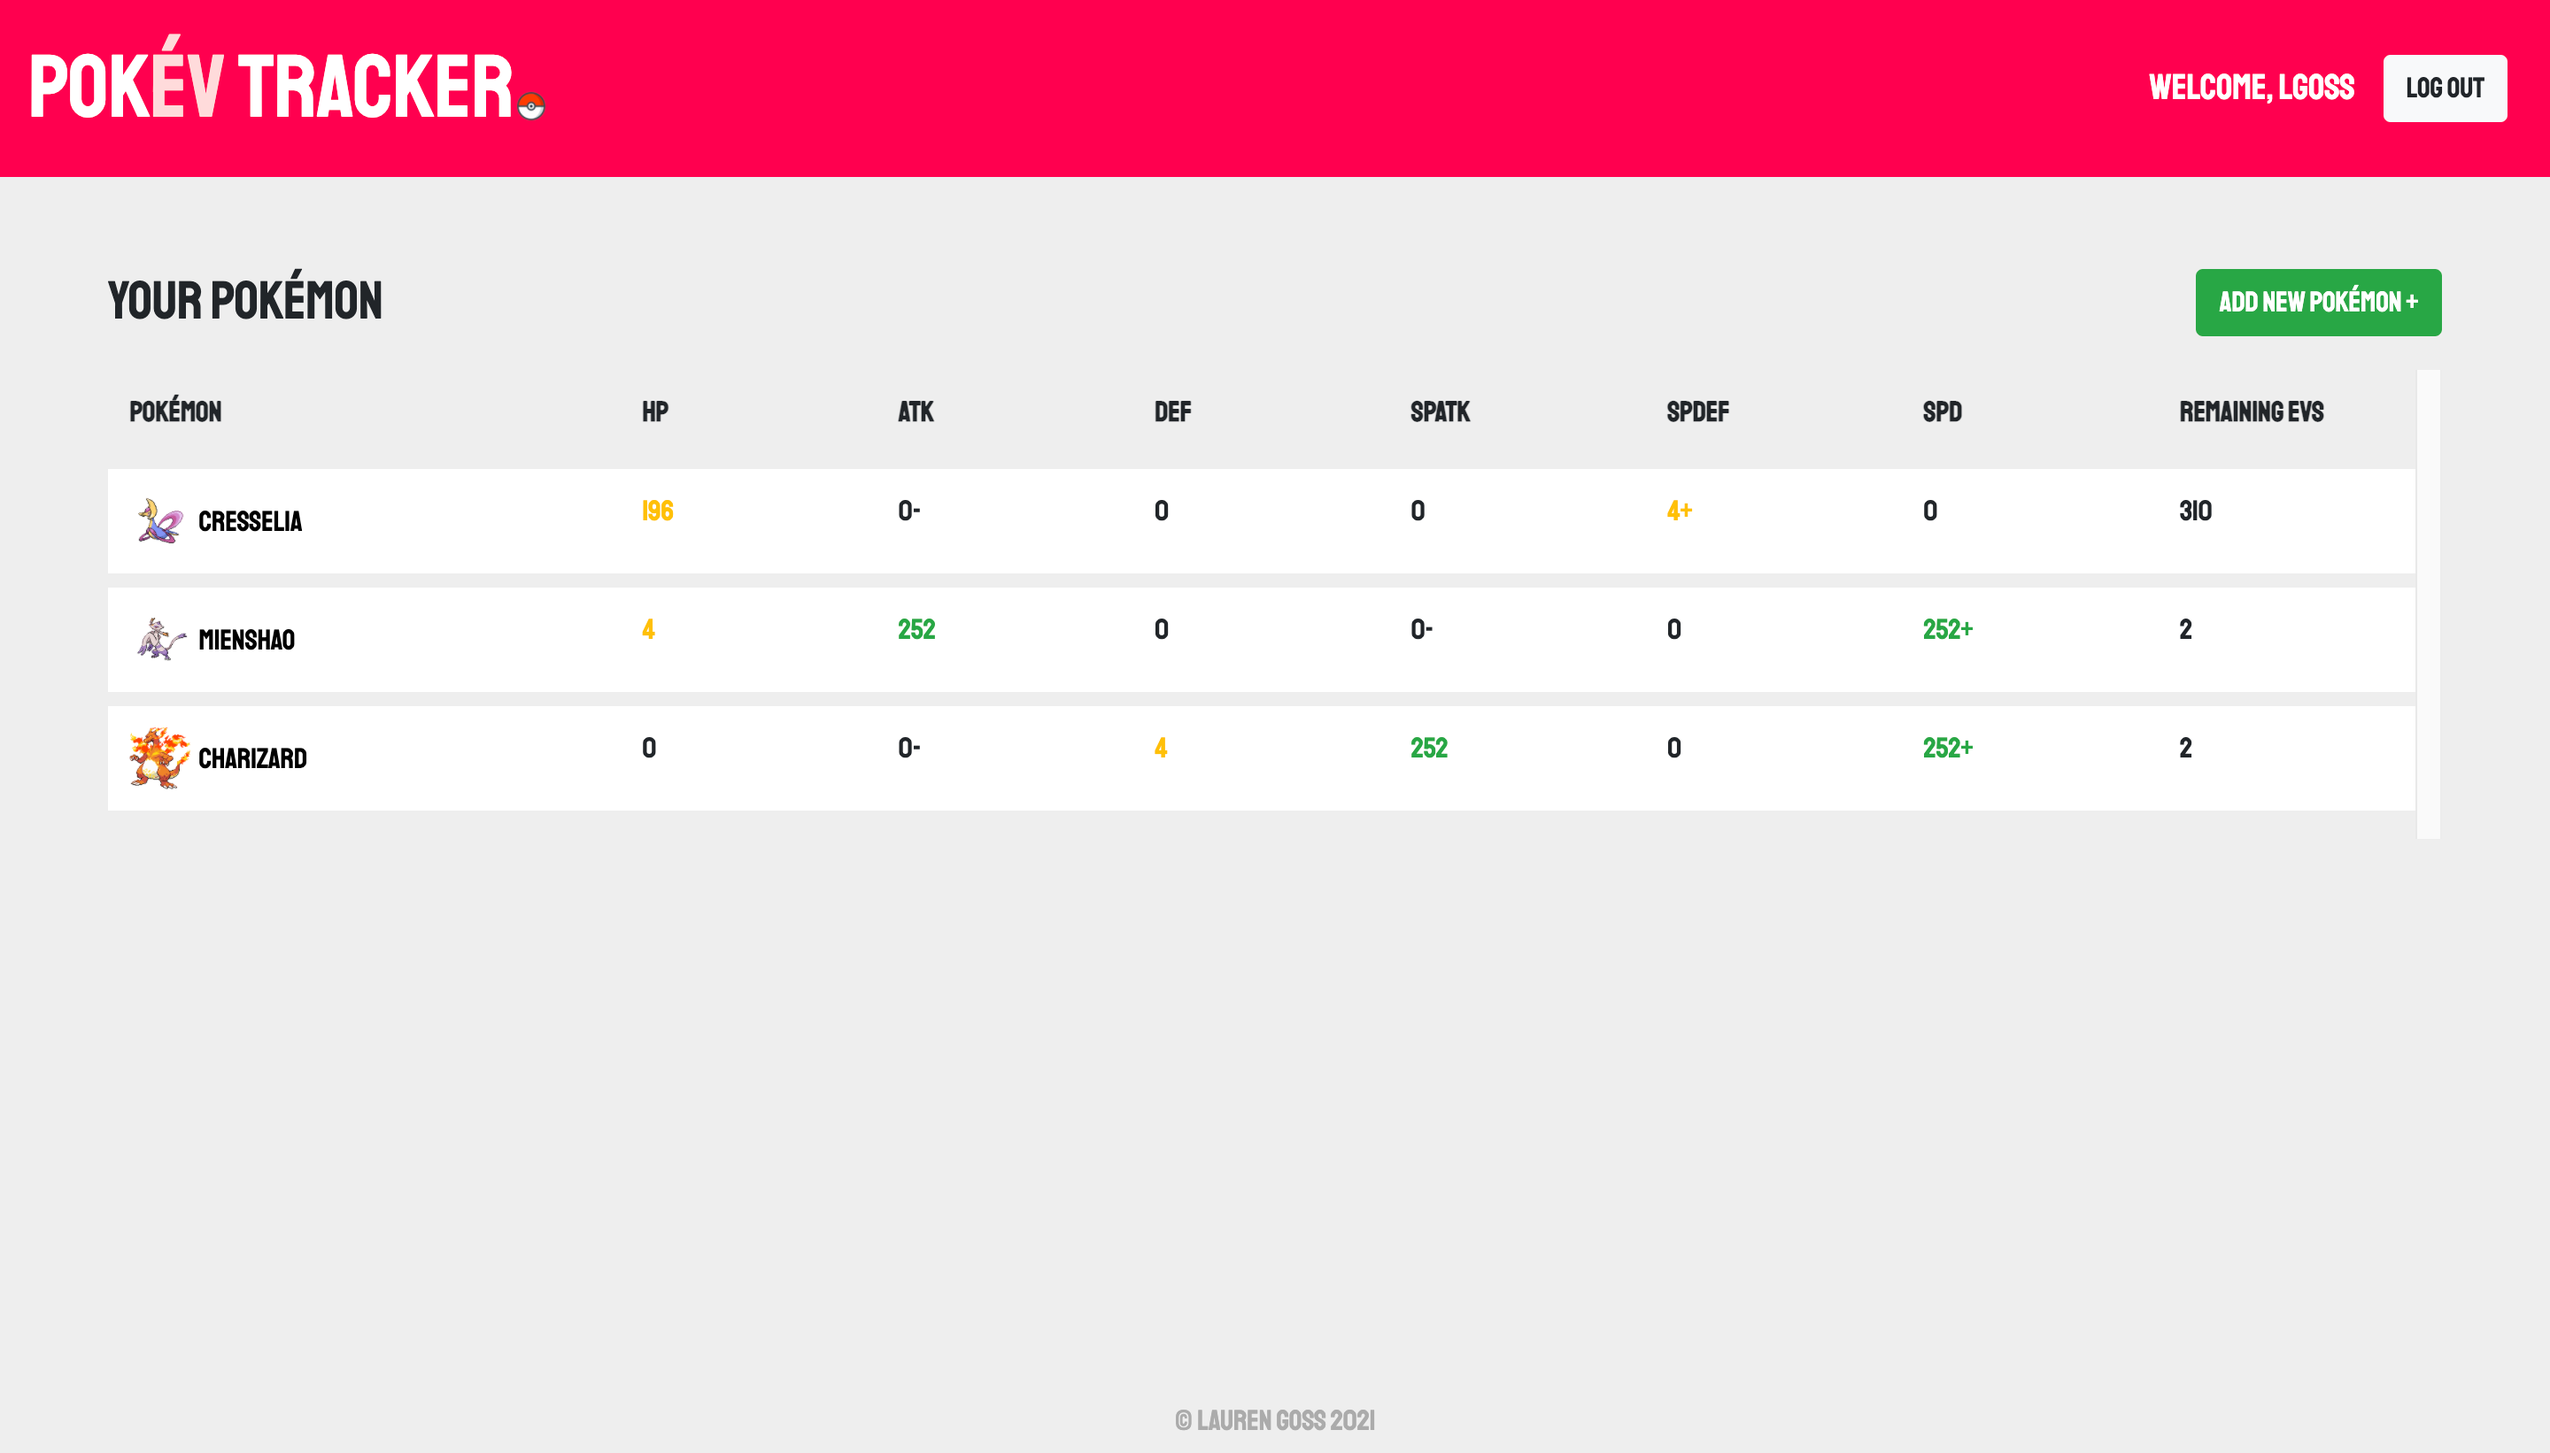
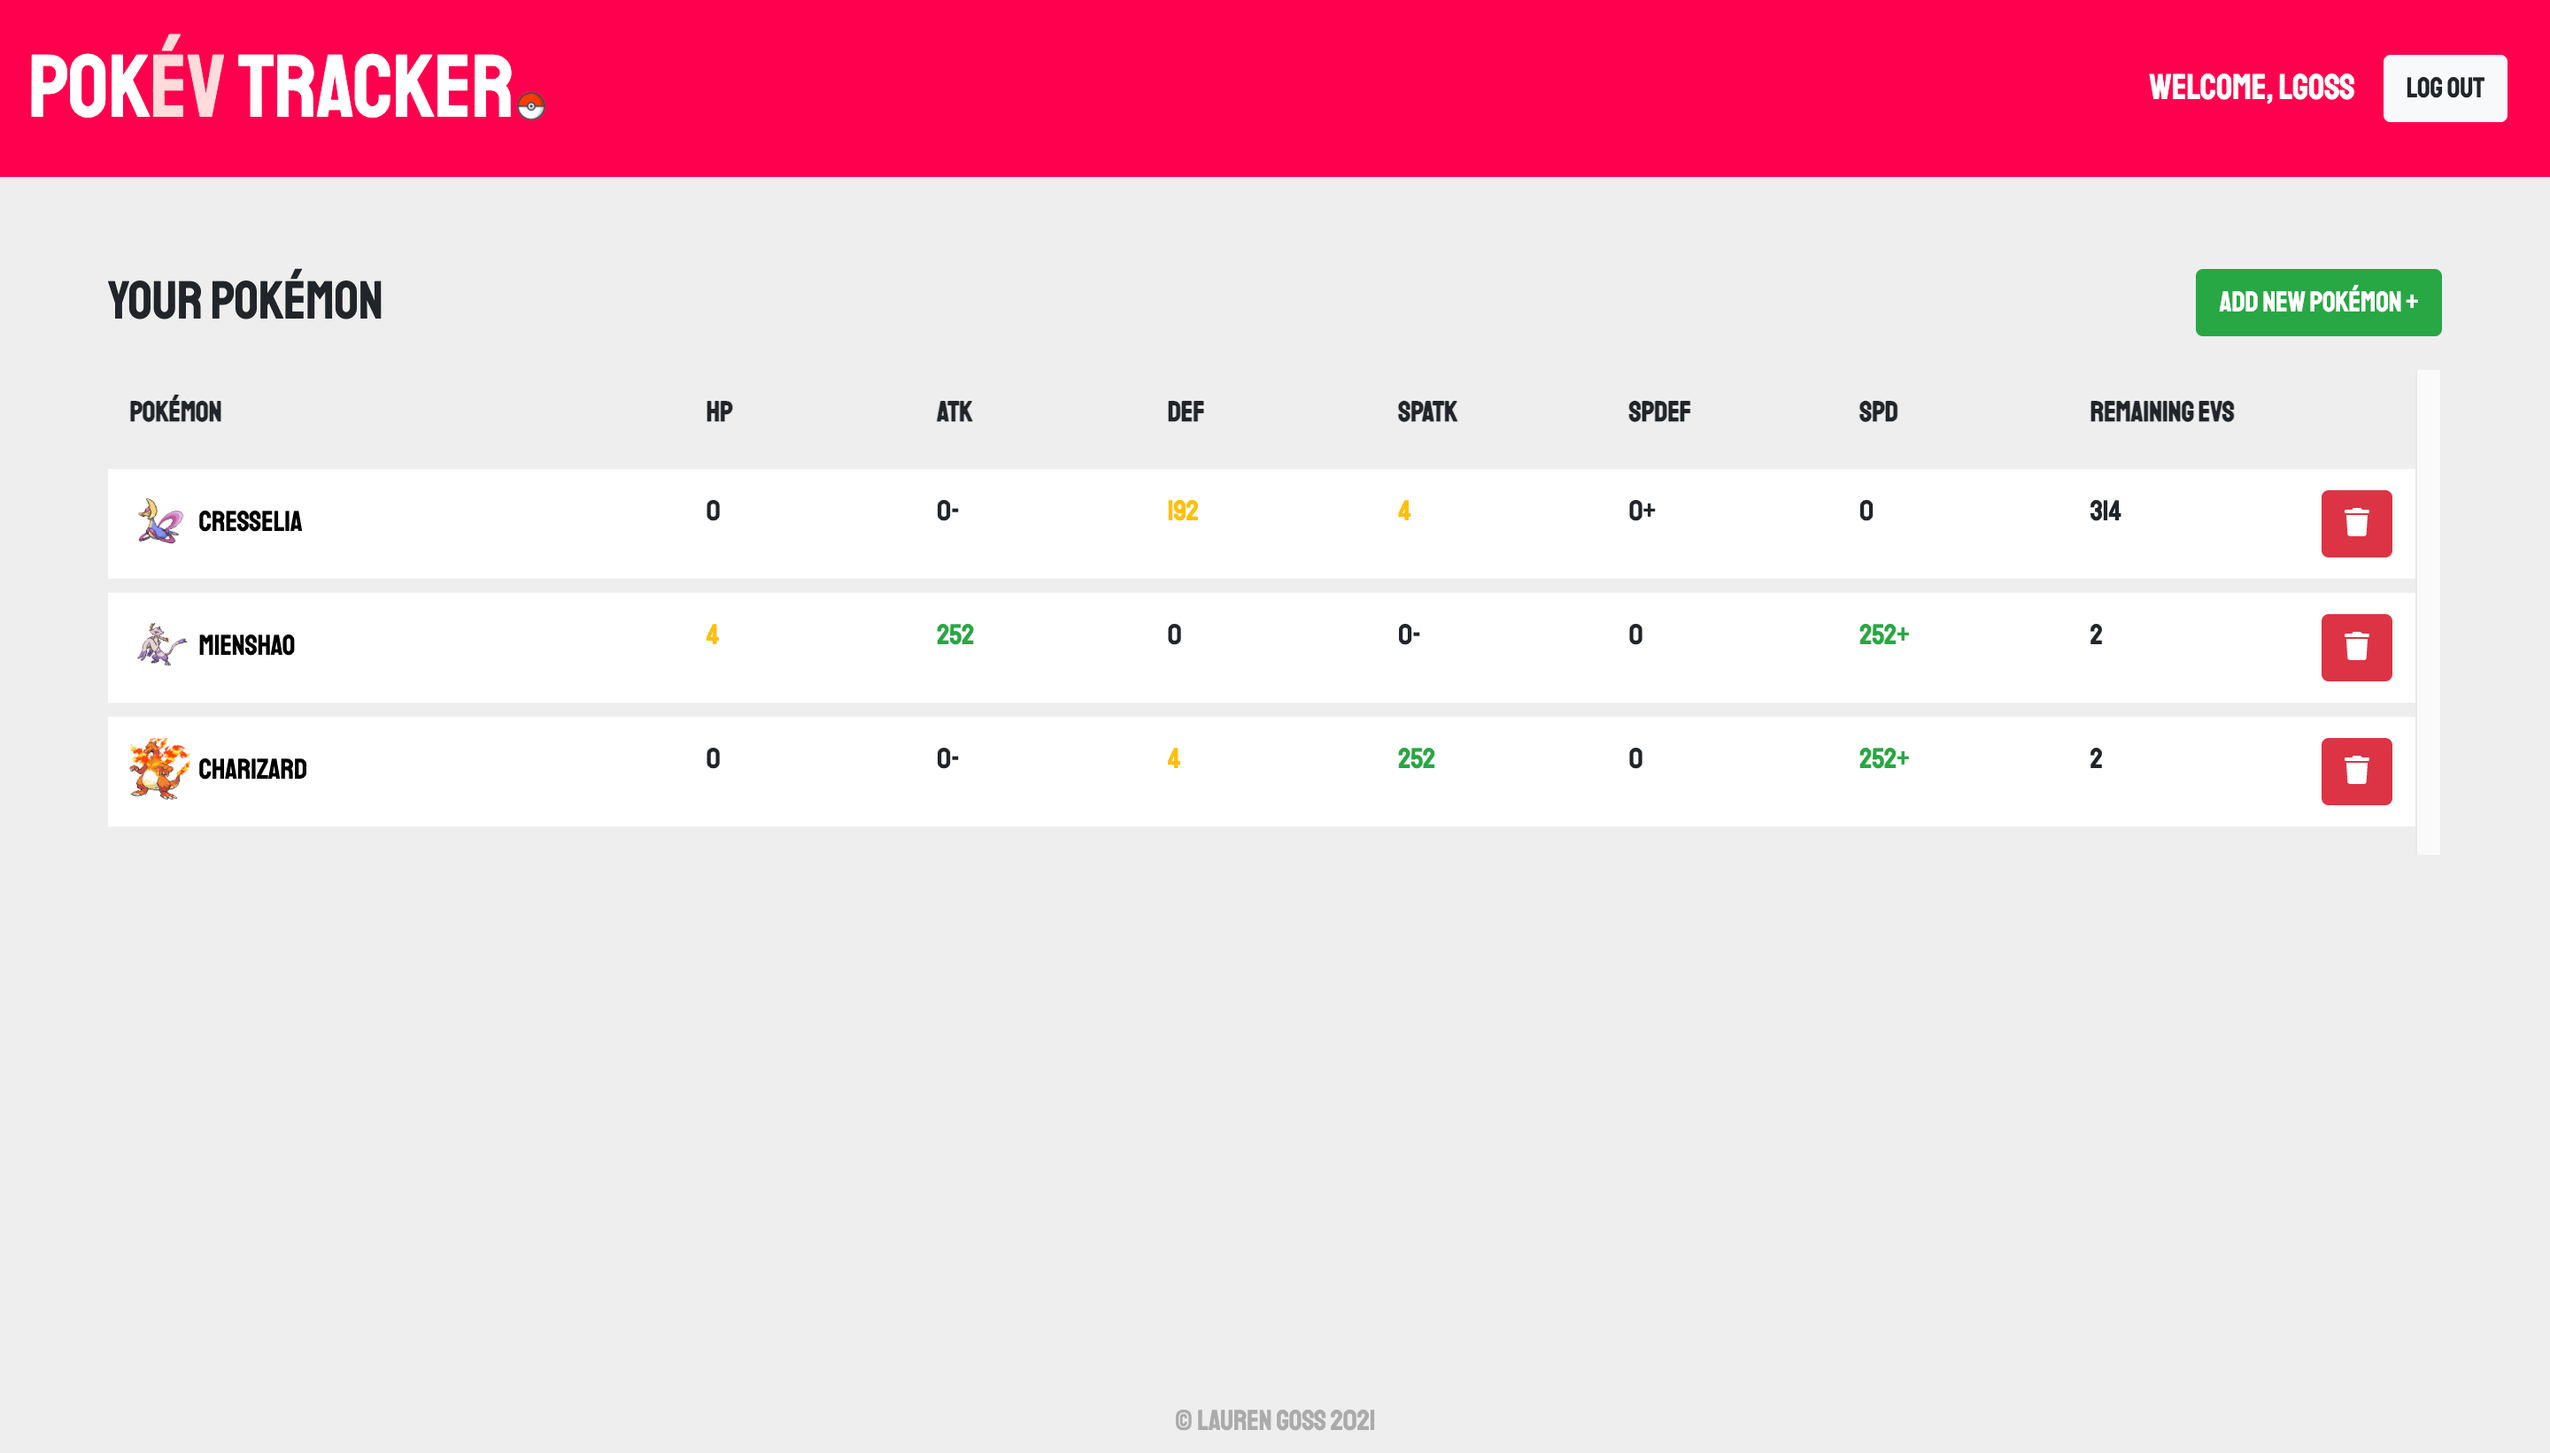
started work on styling Welcome

diff --git a/client/src/components/PokemonTable.js b/client/src/components/PokemonTable.js
@@ -54,77 +54,79 @@ function PokemonTable() {
   }
 
   return (
-    <>
-      {loading ? (
-        <div className="text-center">Loading...</div>
-      ) : (
-        <>
-          <div className="row mb-3">
-            <div style={styles.tableTitle} className="col-6 my-auto">
-              Your Pokémon
+    <div className="row mt-5 mb-3">
+      <div className="col-11 mx-auto">
+        {loading ? (
+          <div className="text-center">Loading...</div>
+        ) : (
+          <>
+            <div className="row mb-3">
+              <div style={styles.tableTitle} className="col-6 my-auto">
+                Your Pokémon
+              </div>
+              <div className="col-6 text-right my-auto">
+                <a
+                  style={styles.button}
+                  type="button"
+                  className="btn btn-success ml-auto"
+                  href="/addPokemon"
+                >
+                  Add New Pokémon +
+                </a>
+              </div>
             </div>
-            <div className="col-6 text-right my-auto">
-              <a
-                style={styles.button}
-                type="button"
-                className="btn btn-success ml-auto"
-                href="/addPokemon"
-              >
-                Add New Pokémon +
-              </a>
-            </div>
-          </div>
-          {pokemonArray.length === 0 ? (
-            <h5 className="text-center mt-5">No Pokémon added yet...</h5>
-          ) : (
-            <div style={styles.table}>
-              <table className="table">
-                <thead style={styles.tableHead} className="thead">
-                  <tr>
-                    <th scope="col" width="25%">
-                      Pokémon
-                    </th>
-                    <th scope="col" width="10%">
-                      HP
-                    </th>
-                    <th scope="col" width="10%">
-                      ATK
-                    </th>
-                    <th scope="col" width="10%">
-                      DEF
-                    </th>
-                    <th scope="col" width="10%">
-                      SPATK
-                    </th>
-                    <th scope="col" width="10%">
-                      SPDEF
-                    </th>
-                    <th scope="col" width="10%">
-                      SPD
-                    </th>
-                    <th scope="col" width="10%">
-                      REMAINING EVs
-                    </th>
-                    <th width="5%"></th>
-                  </tr>
-                </thead>
-                <tbody style={styles.tableBody}>
-                  {pokemonArray.map((pokemon) => {
-                    return (
-                      <PokemonTableRow
-                        pokemon={pokemon}
-                        handleDelete={handleDelete}
-                        key={pokemon._id}
-                      />
-                    );
-                  })}
-                </tbody>
-              </table>
-            </div>
-          )}
-        </>
-      )}
-    </>
+            {pokemonArray.length === 0 ? (
+              <h5 className="text-center mt-5">No Pokémon added yet...</h5>
+            ) : (
+              <div style={styles.table}>
+                <table className="table">
+                  <thead style={styles.tableHead} className="thead">
+                    <tr>
+                      <th scope="col" width="25%">
+                        Pokémon
+                      </th>
+                      <th scope="col" width="10%">
+                        HP
+                      </th>
+                      <th scope="col" width="10%">
+                        ATK
+                      </th>
+                      <th scope="col" width="10%">
+                        DEF
+                      </th>
+                      <th scope="col" width="10%">
+                        SPATK
+                      </th>
+                      <th scope="col" width="10%">
+                        SPDEF
+                      </th>
+                      <th scope="col" width="10%">
+                        SPD
+                      </th>
+                      <th scope="col" width="10%">
+                        REMAINING EVs
+                      </th>
+                      <th width="5%"></th>
+                    </tr>
+                  </thead>
+                  <tbody style={styles.tableBody}>
+                    {pokemonArray.map((pokemon) => {
+                      return (
+                        <PokemonTableRow
+                          pokemon={pokemon}
+                          handleDelete={handleDelete}
+                          key={pokemon._id}
+                        />
+                      );
+                    })}
+                  </tbody>
+                </table>
+              </div>
+            )}
+          </>
+        )}
+      </div>
+    </div>
   );
 }
 

diff --git a/client/src/App.js b/client/src/App.js
@@ -50,28 +50,44 @@ function App() {
     <ApolloProvider client={client}>
       <Router>
         <Header />
-        <div className="row my-5">
-          <div className="col-11 mx-auto">
-            <Route exact path="/">
-              <Home />
-            </Route>
-            <Route exact path="/login">
+        <Route exact path="/">
+          <Home />
+        </Route>
+        <Route exact path="/login">
+          <div className="row mt-5 mb-3"> {/* Had to individually add row/col to each route bc it was affecting Welcome */}
+            <div className="col-11 mx-auto">
               <Login />
-            </Route>
-            <Route exact path="/signUp">
-              <SignUp />
-            </Route>
-            <Route exact path="/addPokemon">
-              <AddPokemon />
-            </Route>
-            <Route exact path="/pokemon/:pokemonId">
-              <Pokemon />
-            </Route>
-            <Route exact path="/editPokemon/:pokemonId">
-              <EditPokemon />
-            </Route>
+            </div>
           </div>
-        </div>
+        </Route>
+        <Route exact path="/signUp">
+          <div className="row mt-5 mb-3">
+            <div className="col-11 mx-auto">
+              <SignUp />
+            </div>
+          </div>
+        </Route>
+        <Route exact path="/addPokemon">
+          <div className="row mt-5 mb-3">
+            <div className="col-11 mx-auto">
+              <AddPokemon />
+            </div>
+          </div>
+        </Route>
+        <Route exact path="/pokemon/:pokemonId">
+          <div className="row mt-5 mb-3">
+            <div className="col-11 mx-auto">
+              <Pokemon />
+            </div>
+          </div>
+        </Route>
+        <Route exact path="/editPokemon/:pokemonId">
+          <div className="row mt-5 mb-3">
+            <div className="col-11 mx-auto">
+              <EditPokemon />
+            </div>
+          </div>
+        </Route>
         <Footer />
       </Router>
     </ApolloProvider>

diff --git a/client/src/components/Welcome.js b/client/src/components/Welcome.js
@@ -1,26 +1,37 @@
 import React from 'react';
 
+// import pokemonWallpaper from '../images/pokemon-wallpaper.png';
+import pokemonShieldWallpaper from '../images/pokemon-shield-wallpaper.png';
+
 const styles = {
-  ev: {
-    color: 'rgb(90 85 85)',
+  backgroundImg: {
+    height: '90vh',
+    backgroundImage: `url(${pokemonShieldWallpaper})`,
+    position: 'relative',
+  },
+  welcomeDiv: {
+    position: 'absolute',
   },
 };
 
 function Welcome() {
   return (
-    <div className="text-center">
-      <h2 className="mb-5">
-        Welcome to{' '}
-        <strong>
-          Pok<span style={styles.ev}>ÉV</span> Tracker!
-        </strong>
-      </h2>
-      <p>
-        <span className="text-success">Sign Up</span> or{' '}
-        <span className="text-success">Log In</span> to begin using this
-        application.
-      </p>
-    </div>
+    <>
+      {/* Image */}
+      <div style={styles.backgroundImg}></div>
+
+      {/* Welcome Message */}
+      <div style={styles.welcomeDiv}>
+        <h2>
+          Welcome to <strong>PokÉV Tracker!</strong>
+        </h2>
+        {/* <p>
+          <span className="text-success">Sign Up</span> or{' '}
+          <span className="text-success">Log In</span> to begin using this
+          application.
+        </p> */}
+      </div>
+    </>
   );
 }
 

diff --git a/client/src/components/Footer.js b/client/src/components/Footer.js
@@ -1,4 +1,5 @@
 import React from 'react';
+import { useLocation } from 'react-router-dom';
 
 const styles = {
   footer: {
@@ -6,16 +7,20 @@ const styles = {
   },
   footerText: {
     color: '#ababab',
-    fontFamily: 'Staatliches',
-  }
-}
+  },
+};
 
 function Footer() {
   return (
-    <footer style={styles.footer} className="fixed-bottom">
+    <footer
+      style={styles.footer}
+      className={useLocation().pathname === '/' ? 'fixed-bottom' : null} // Footer is fixed to bottom only if url is '/'
+    >
       <div className="row">
         <div className="col text-center">
-          <p style={styles.footerText}>© Lauren Goss {new Date().getFullYear()}</p>
+          <p style={styles.footerText}>
+            © Lauren Goss {new Date().getFullYear()}
+          </p>
         </div>
       </div>
     </footer>

diff --git a/client/src/components/PokemonTableRow.js b/client/src/components/PokemonTableRow.js
@@ -1,4 +1,4 @@
-import React, { useState } from 'react';
+import React from 'react';
 
 import { FontAwesomeIcon } from '@fortawesome/react-fontawesome';
 import { faTrash } from '@fortawesome/free-solid-svg-icons';
@@ -18,6 +18,11 @@ const styles = {
   sprite: {
     maxHeight: '35px',
   },
+  trashButton: {
+    color: '#ff004f',
+    backgroundColor: 'transparent',
+    border: 'transparent',
+  }
 };
 
 function PokemonTableRow({ pokemon, handleDelete }) {
@@ -83,7 +88,8 @@ function PokemonTableRow({ pokemon, handleDelete }) {
       </td>
       <td style={styles.td}>
         <button
-          className="btn btn-danger"
+          style={styles.trashButton}
+          className="btn"
           onClick={() => handleDelete(pokemon._id)}
         >
           <FontAwesomeIcon icon={faTrash} />

diff --git a/client/src/global.css b/client/src/global.css
@@ -1,8 +1,6 @@
 body {
   background-color: #eeeeee;
   overflow-x: hidden;
-  /* Padding on bottom so footer won't cover content */
-  padding-bottom: 30px;
   font-family: 'Staatliches';
 }
 

diff --git a/client/src/utils/auth.js b/client/src/utils/auth.js
@@ -38,7 +38,7 @@ class AuthService {
 
   logout() {
     localStorage.removeItem('id_token');
-    window.location.reload();
+    window.location.assign('/');
   }
 }
 
